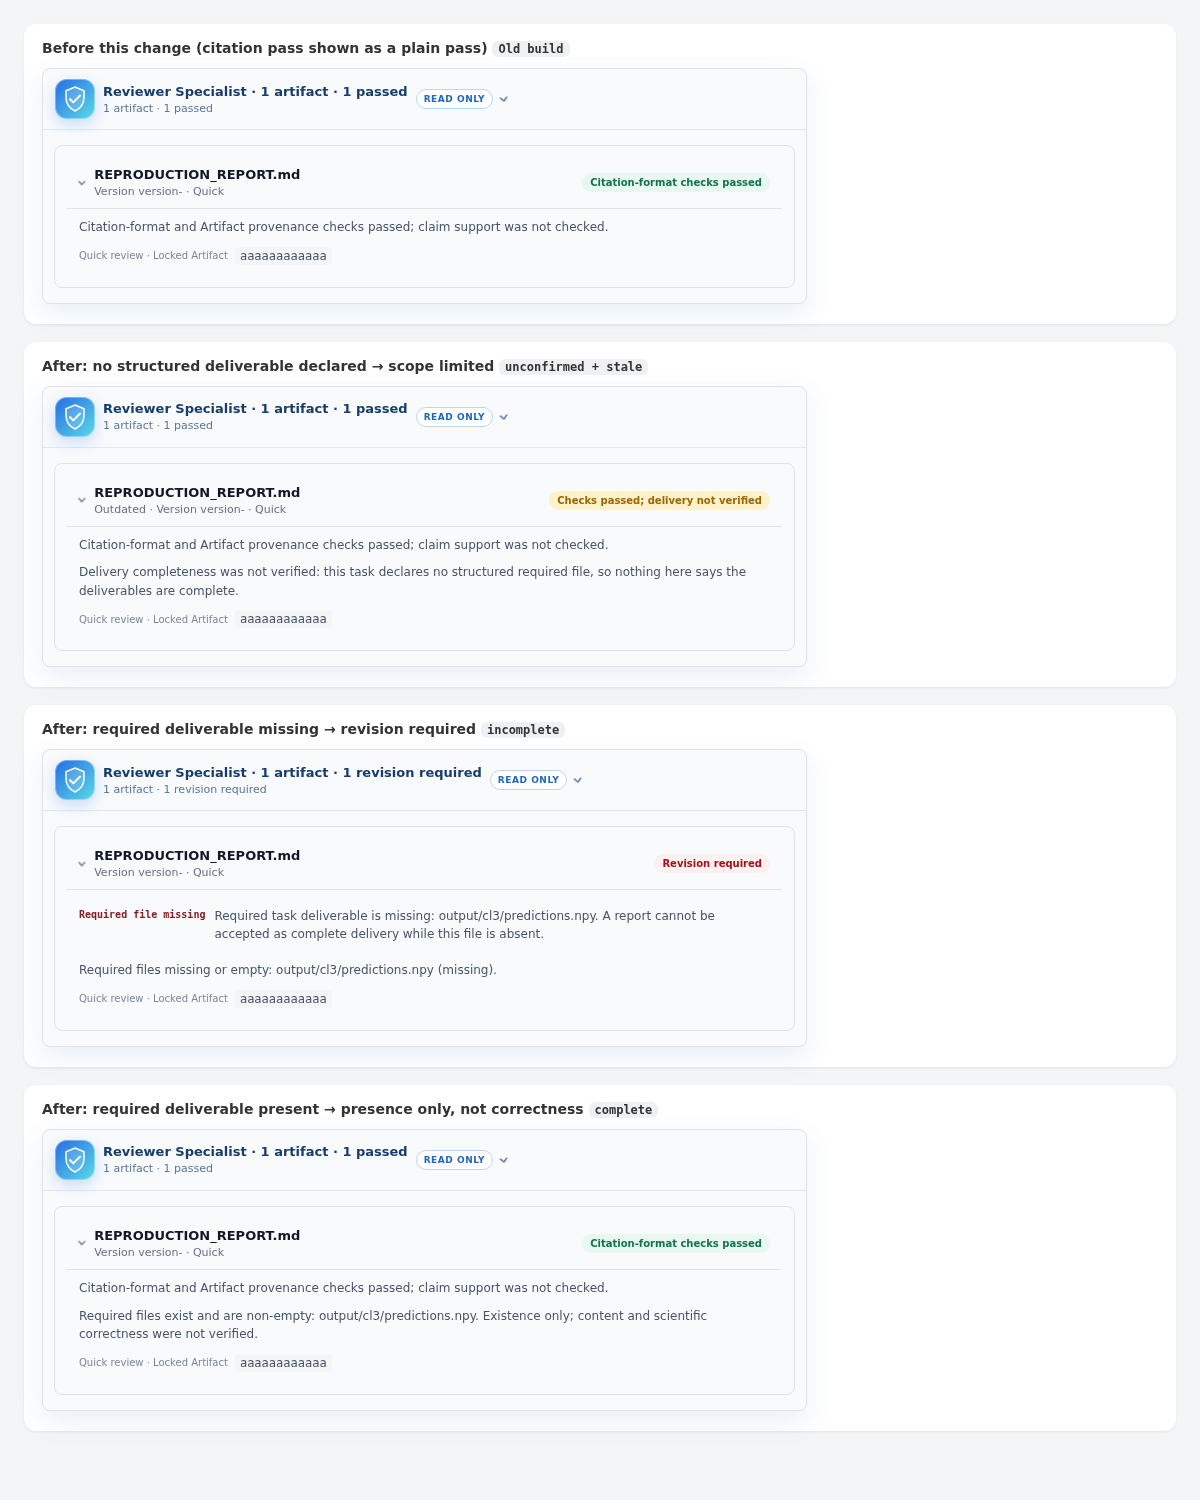
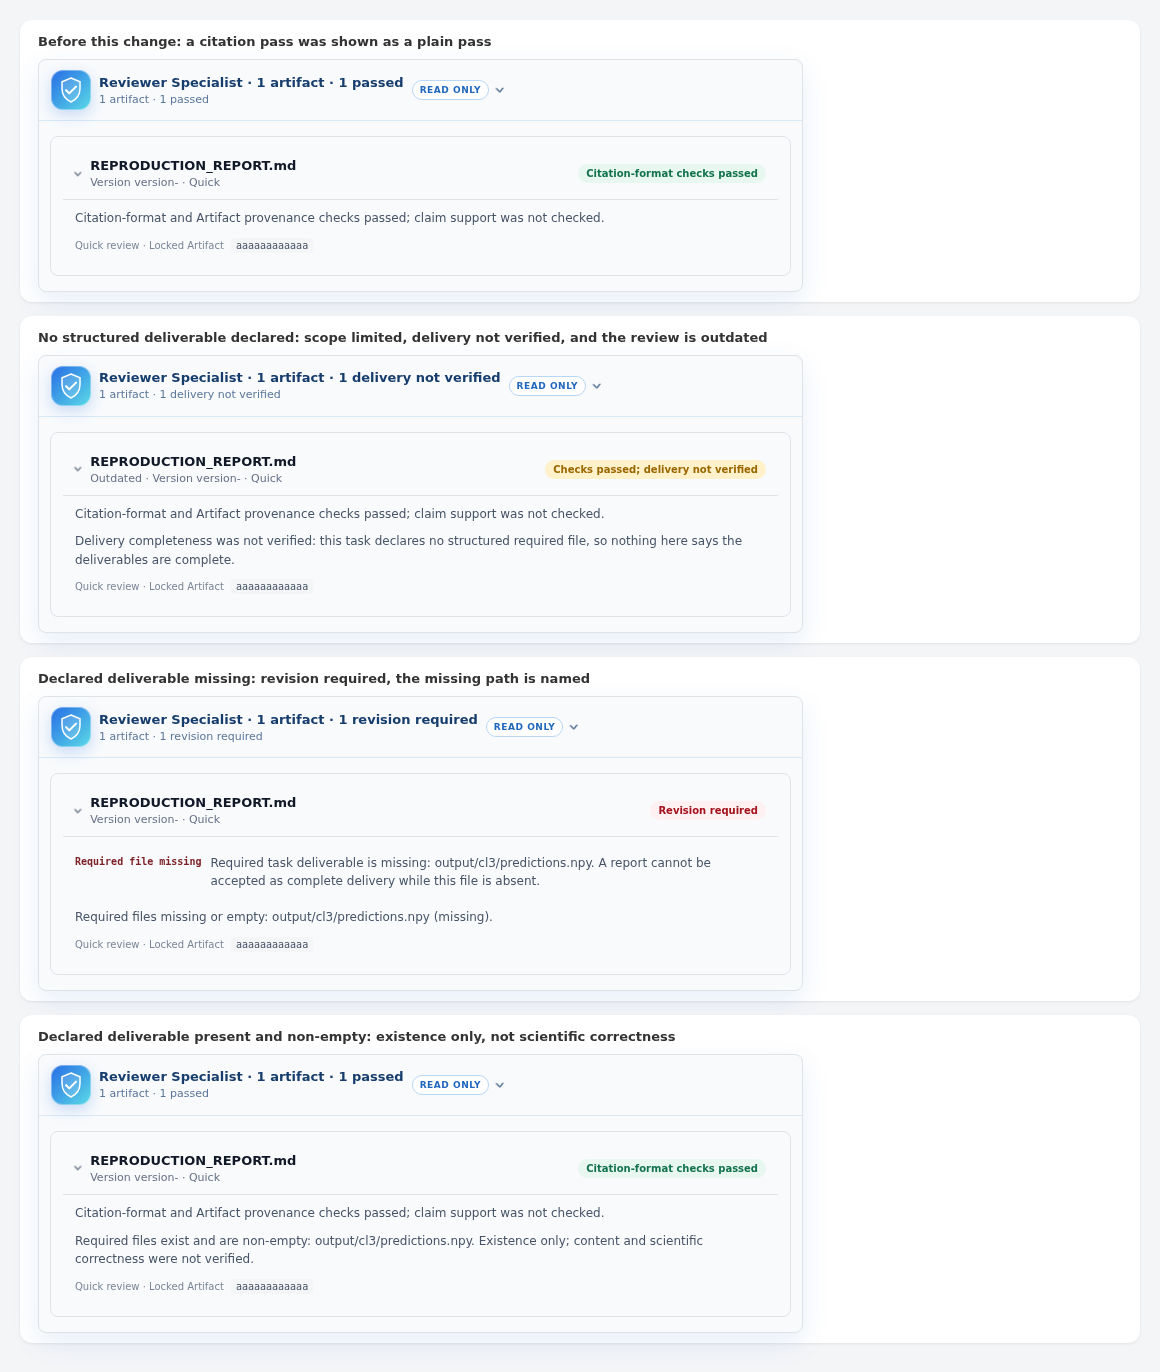
fix(web): count a review that could not verify delivery as unverified, not passed
The panel summary still read "1 passed" for a review whose label said the
delivery was not verified, which is the single green signal #435 asks us to
stop mixing with an overall pass.

- the summary now reports "N delivery not verified" and excludes those reviews
  from the passed count;
- the screenshot in docs/images is re-rendered from the component with the
  real stylesheet so the four states in the PR match this build.

diff --git a/apps/web/src/ReviewerPanel.tsx b/apps/web/src/ReviewerPanel.tsx
@@ -278,12 +278,20 @@ function batchSummary(
   }
   if (status === "failed") return t("reviewer.statusFailed");
   if (!reviews.length) return t("reviewer.builtInSpecialist");
-  const passed = reviews.filter((review) => review.status !== "failed" && review.decision === "ACCEPT_AND_PROCEED" && !review.findings.length).length;
+  // A review that could not verify delivery is not a pass, so it gets its own
+  // count instead of inflating "passed".
+  const unverifiedDelivery = (review: ArtifactReviewRun) => review.status !== "failed"
+    && review.decision === "ACCEPT_AND_PROCEED" && !review.findings.length
+    && review.completeness?.status === "unconfirmed";
+  const passed = reviews.filter((review) => review.status !== "failed"
+    && review.decision === "ACCEPT_AND_PROCEED" && !review.findings.length && !unverifiedDelivery(review)).length;
+  const deliveryUnverified = reviews.filter(unverifiedDelivery).length;
   const warning = reviews.filter((review) => review.status !== "failed" && review.findings.some((finding) => finding.severity === "warning")).length;
   const revision = reviews.filter((review) => review.status === "failed" || review.findings.some((finding) => finding.severity === "critical")).length;
   const parts = [
     t(reviews.length === 1 ? "reviewer.artifactCountOne" : "reviewer.artifactCount", { count: reviews.length }),
     passed ? t("reviewer.passedCount", { count: passed }) : undefined,
+    deliveryUnverified ? t("reviewer.deliveryUnverifiedCount", { count: deliveryUnverified }) : undefined,
     warning ? t(warning === 1 ? "reviewer.warningCountOne" : "reviewer.warningCount", { count: warning }) : undefined,
     revision ? t("reviewer.revisionCount", { count: revision }) : undefined,
   ].filter(Boolean);

diff --git a/apps/web/src/i18n/messages.ts b/apps/web/src/i18n/messages.ts
@@ -2785,6 +2785,7 @@ export const en = {
   "reviewer.artifactCount": "{count} artifacts",
   "reviewer.artifactCountOne": "{count} artifact",
   "reviewer.passedCount": "{count} passed",
+  "reviewer.deliveryUnverifiedCount": "{count} delivery not verified",
   "reviewer.warningCount": "{count} warnings",
   "reviewer.warningCountOne": "{count} warning",
   "reviewer.revisionCount": "{count} revision required",
@@ -5642,6 +5643,7 @@ export const zhCN: Partial<Record<MessageKey, string>> = {
   "reviewer.artifactCount": "{count} 个产物",
   "reviewer.artifactCountOne": "{count} 个产物",
   "reviewer.passedCount": "{count} 项通过",
+  "reviewer.deliveryUnverifiedCount": "{count} 项交付未验证",
   "reviewer.warningCount": "{count} 项告警",
   "reviewer.warningCountOne": "{count} 项告警",
   "reviewer.revisionCount": "{count} 项需要修订",

diff --git a/apps/web/tests/ReviewerPanel.test.tsx b/apps/web/tests/ReviewerPanel.test.tsx
@@ -85,6 +85,9 @@ test("ReviewerPanel never presents a citation pass as a delivery pass", () => {
   }));
 
   assert.match(html, /Checks passed; delivery not verified/);
+  // The panel summary must not count an unverified delivery as a pass.
+  assert.match(html, /1 artifact · 1 delivery not verified/);
+  assert.doesNotMatch(html, /1 passed/);
   assert.match(html, /Outdated/);
   assert.match(html, /Delivery completeness was not verified/);
   assert.doesNotMatch(html, /Citation-format checks passed/);
